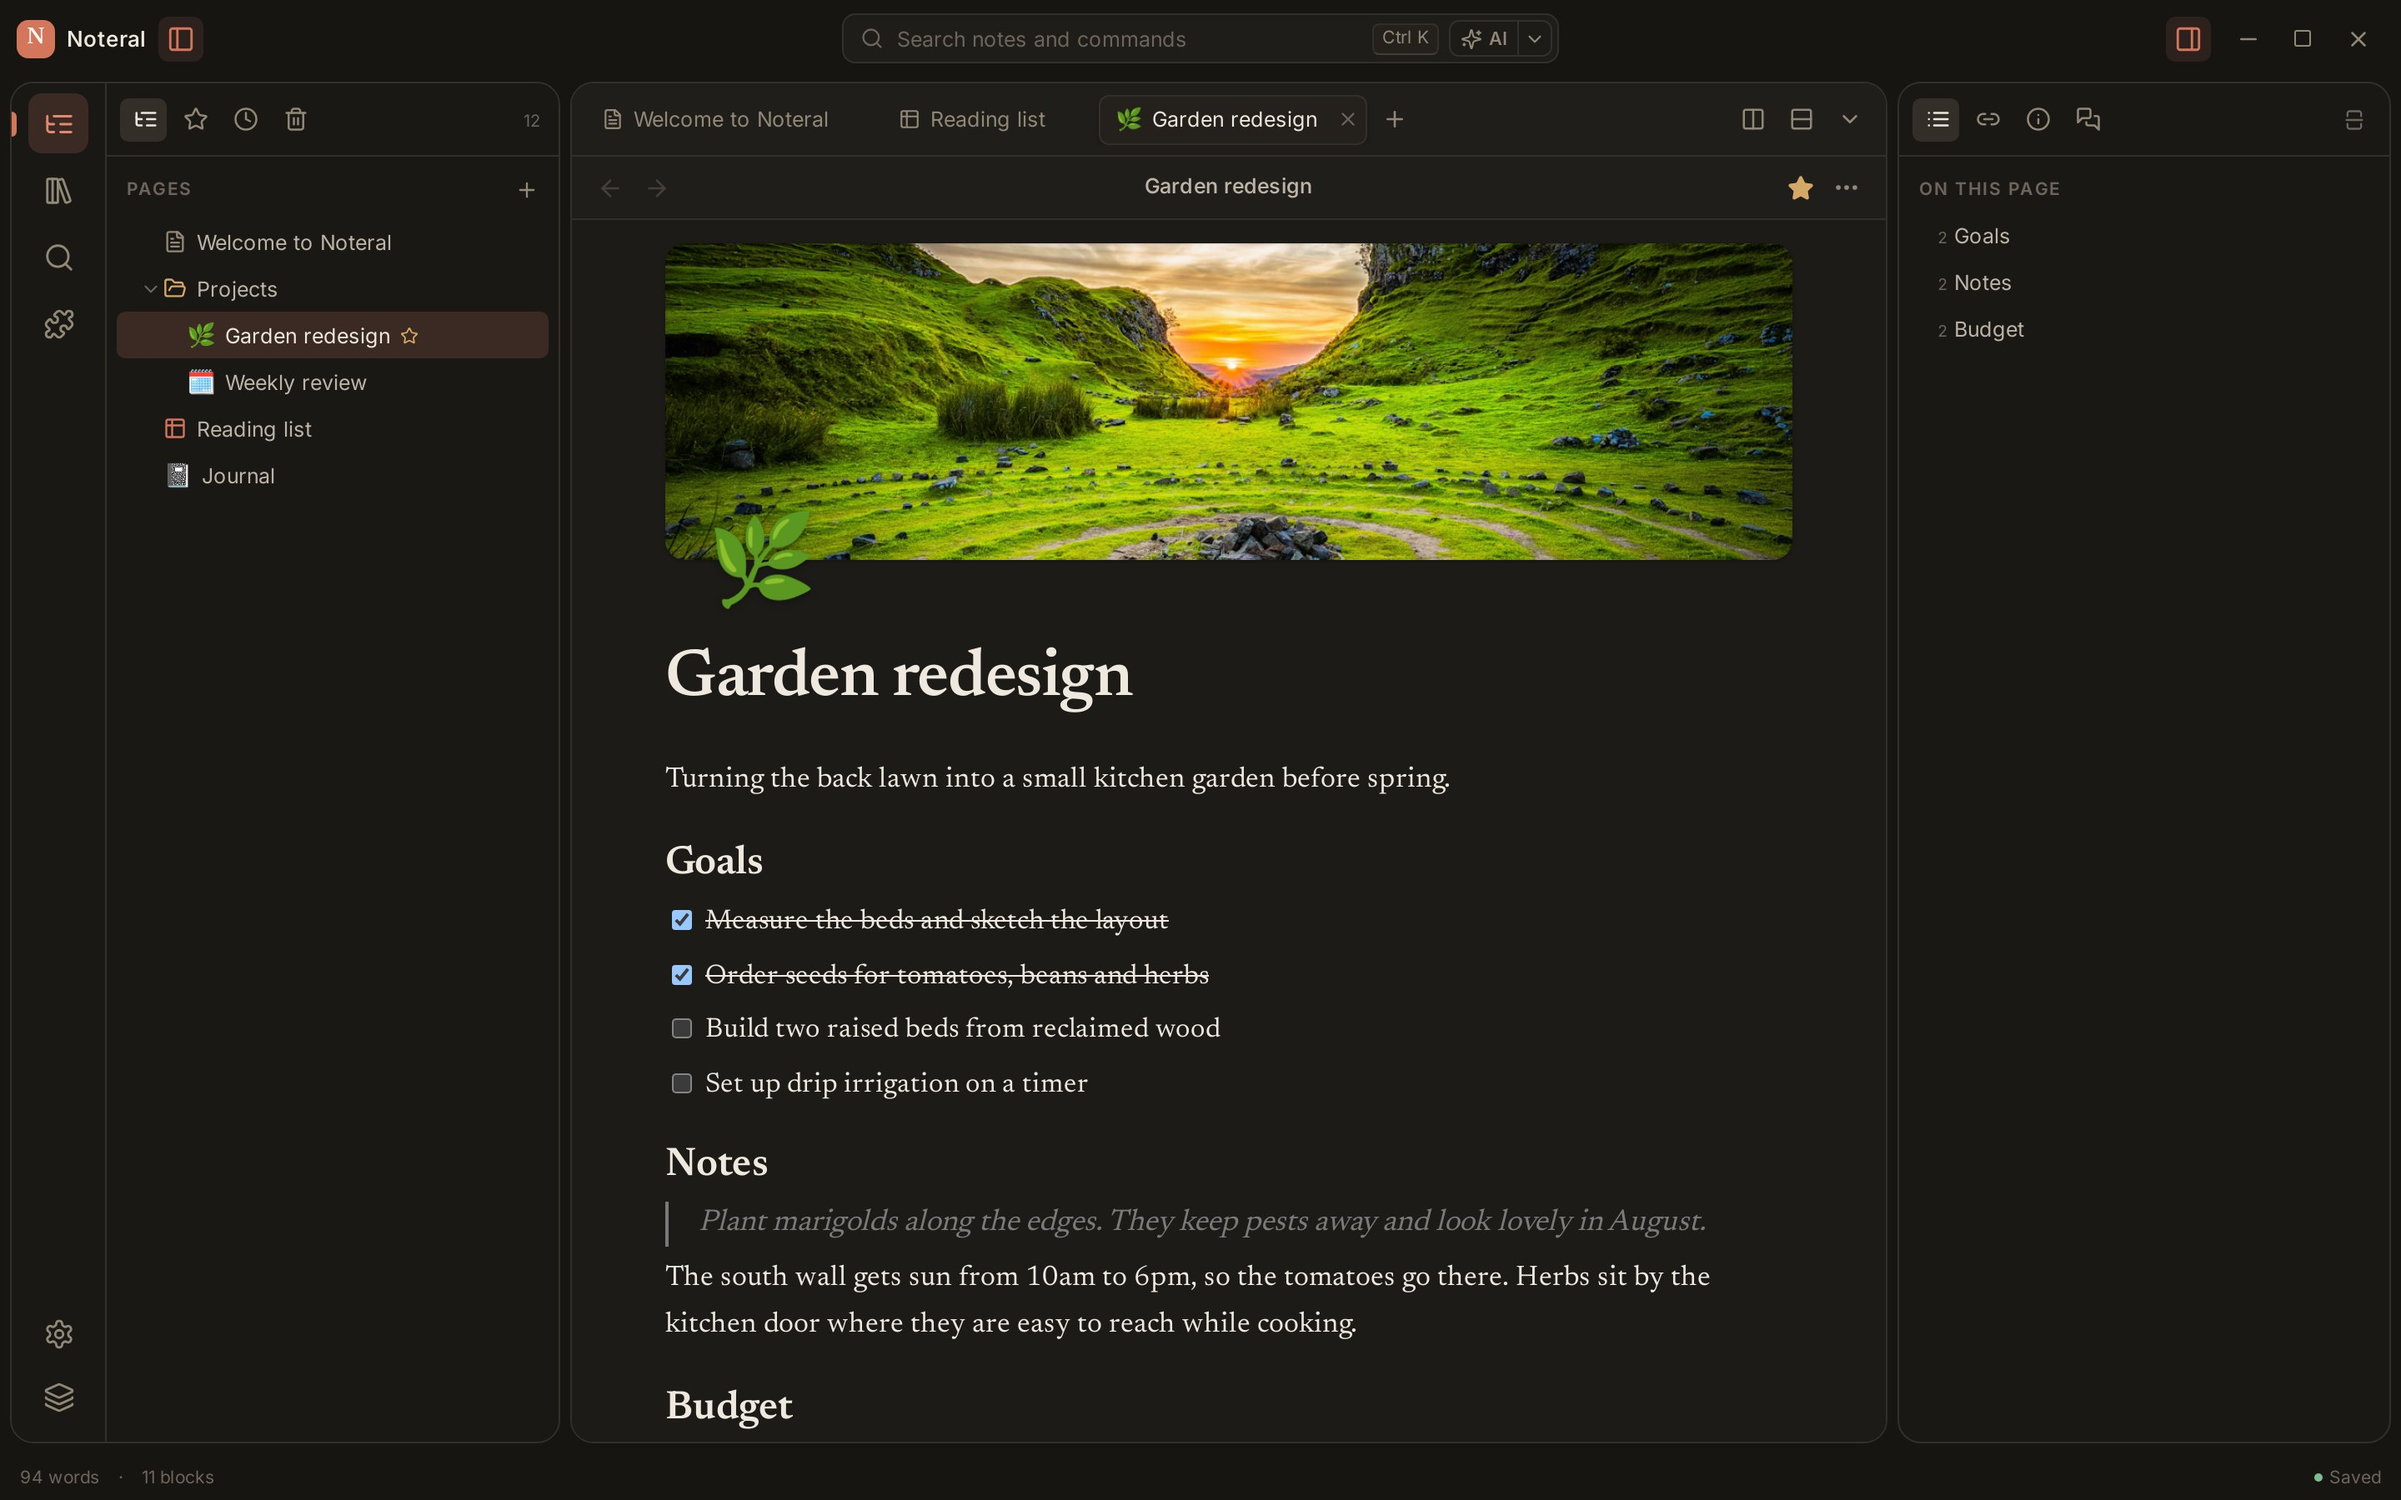
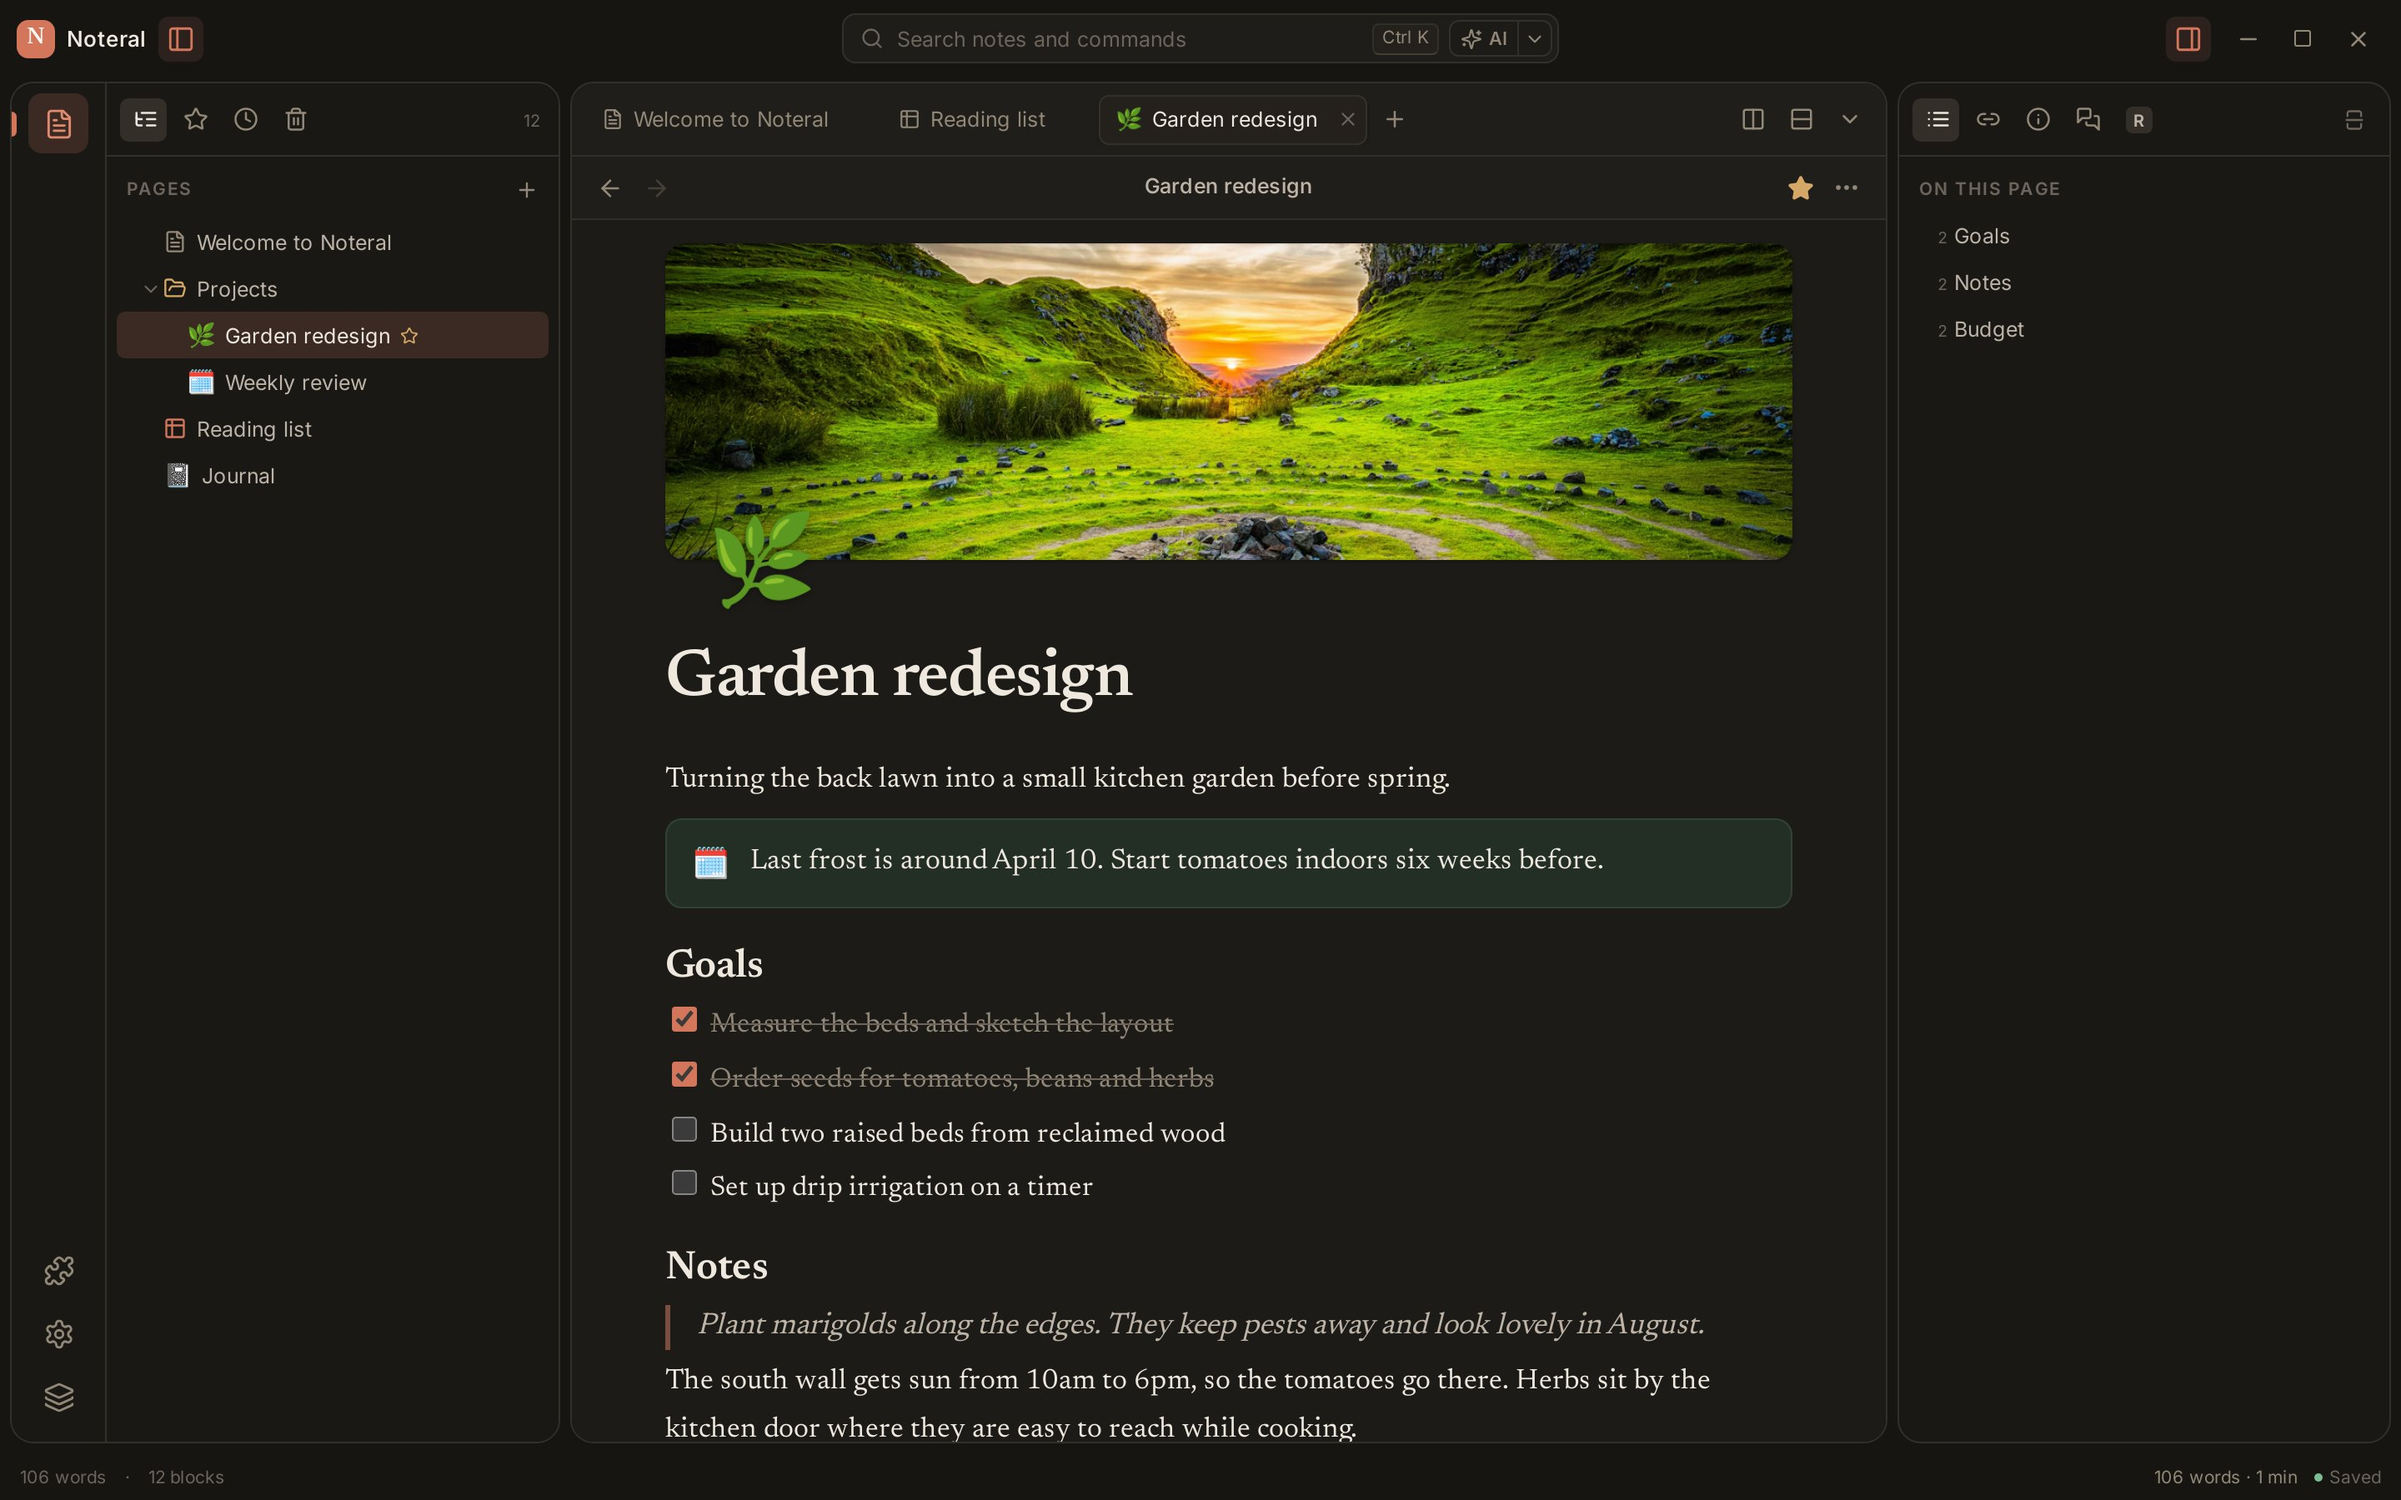
docs: refresh README screenshots and add the plugin store

Changed region(s): [[0.2812, 0.56, 0.6875, 0.9644], [0.875, 0.0622, 0.9062, 0.0933], [0.0, 0.0622, 0.0312, 0.0933]]

diff --git a/README.md b/README.md
@@ -6,16 +6,18 @@ A quiet, local-first notes app for the desktop.
 
 ## Features
 
-- **Block editor**: headings, to-dos, quotes, tables, code, images and links between pages.
+- **Block editor**: headings, to-dos, quotes, callouts, tables, code, images and links between pages.
 - **Nested pages**: a page tree, tabs, split panes and favorites.
 - **Databases**: tables, boards, calendars, charts and formulas.
 - **AI assistant**: ask about a page, rewrite, summarize, or build widgets and themes.
-- **Plugins**: a full SDK for commands, menus, popups, status bar widgets and page backgrounds.
+- **Plugins**: a plugin store and a full SDK for commands, shortcuts, menus, popups, status bar widgets, editing and page backgrounds.
 - **Local-first**: everything stays on your computer. No account and no sync service.
 
 ![Databases](docs/images/database.jpg)
 
 ![AI assistant menu](docs/images/assistant.jpg)
+
+![Plugins](docs/images/plugins.jpg)
 
 ![Dark theme](docs/images/editor-dark.jpg)
 
